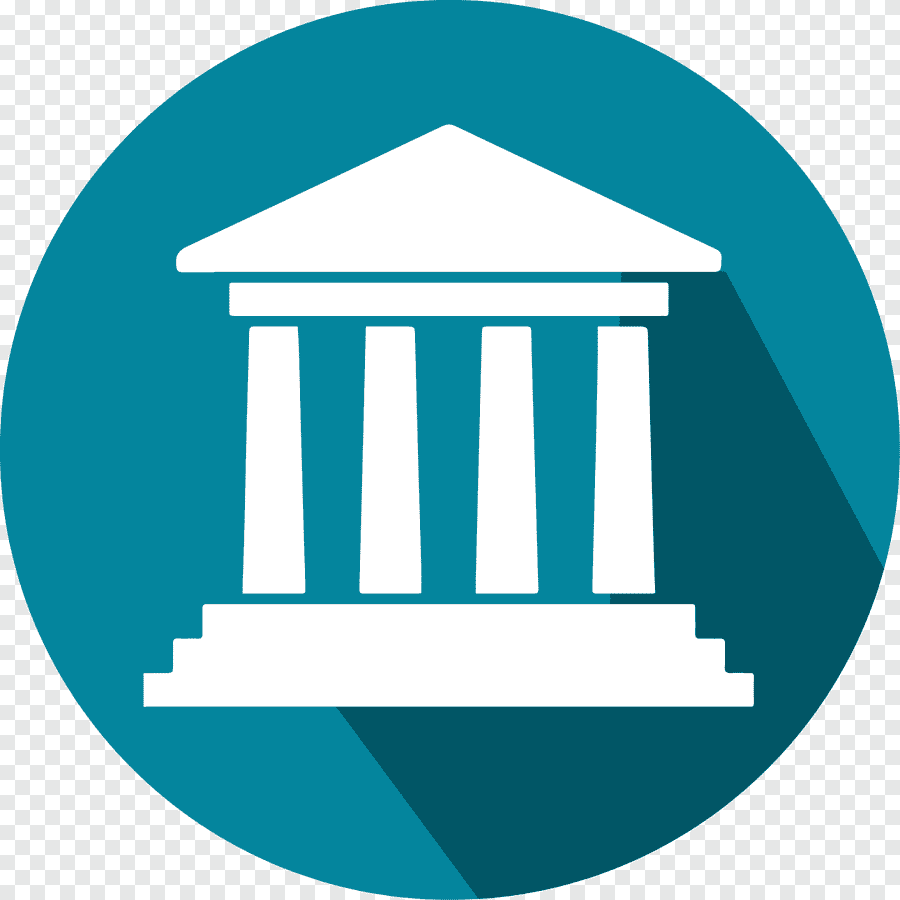
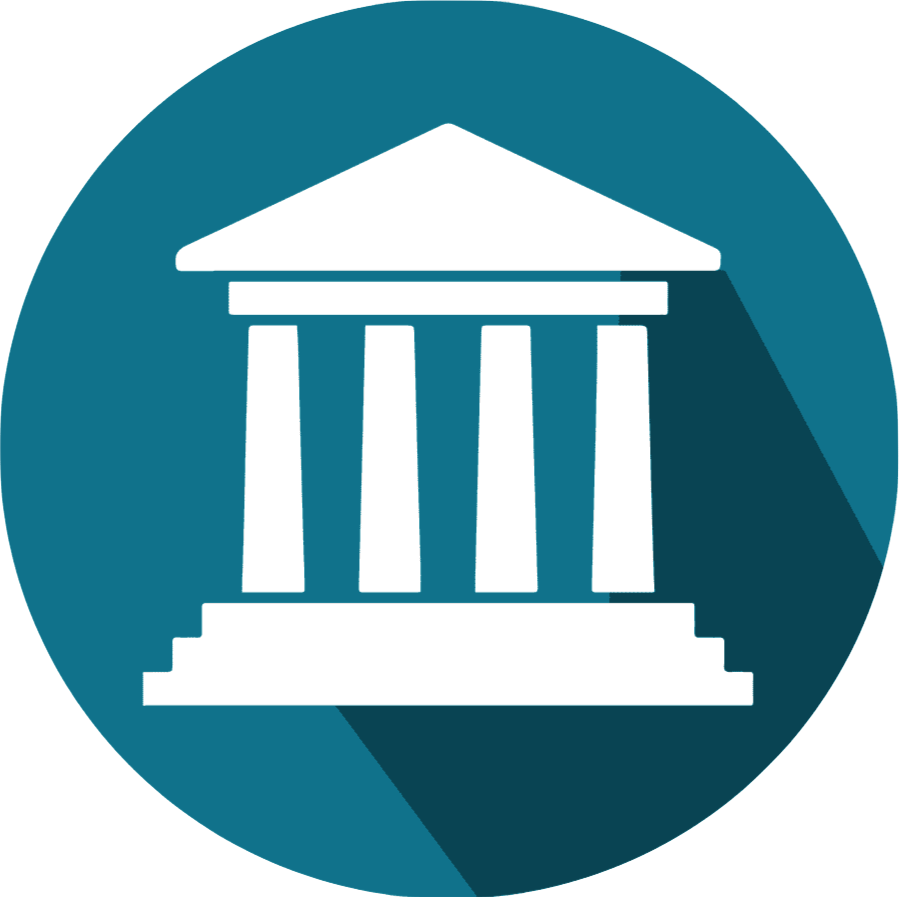
fluid

diff --git a/index.html b/index.html
@@ -171,7 +171,7 @@ URI     : https://www.templatemonster.com/authors/surjithctly
                         <!-- // end .col-md-6 col-lg-3 -->
                         <div class="col-md-6 col-lg-3">
                             <div class="team-block">
-                                <div class="animation anim-light mb-3" data-aos="slide-effect-2"><img src="images/Policy.png" class="img-fluid" alt="team 2" /></div>
+                                <div class="animation anim-light mb-3" data-aos="slide-effect-2"><img src="images/png-clipart-computer-icons-government-organization-policy-public-sector-court-symbol-text-public-relations.png" class="img-fluid" alt="team 2" /></div>
                                 <h4 data-aos="fade-in">Policy</h4>
                                 <p data-aos="fade-in" data-aos-delay="500">Analysis and Critiques of Past and Present Policies and Frameworks for New Proposals </p>
                             </div>
